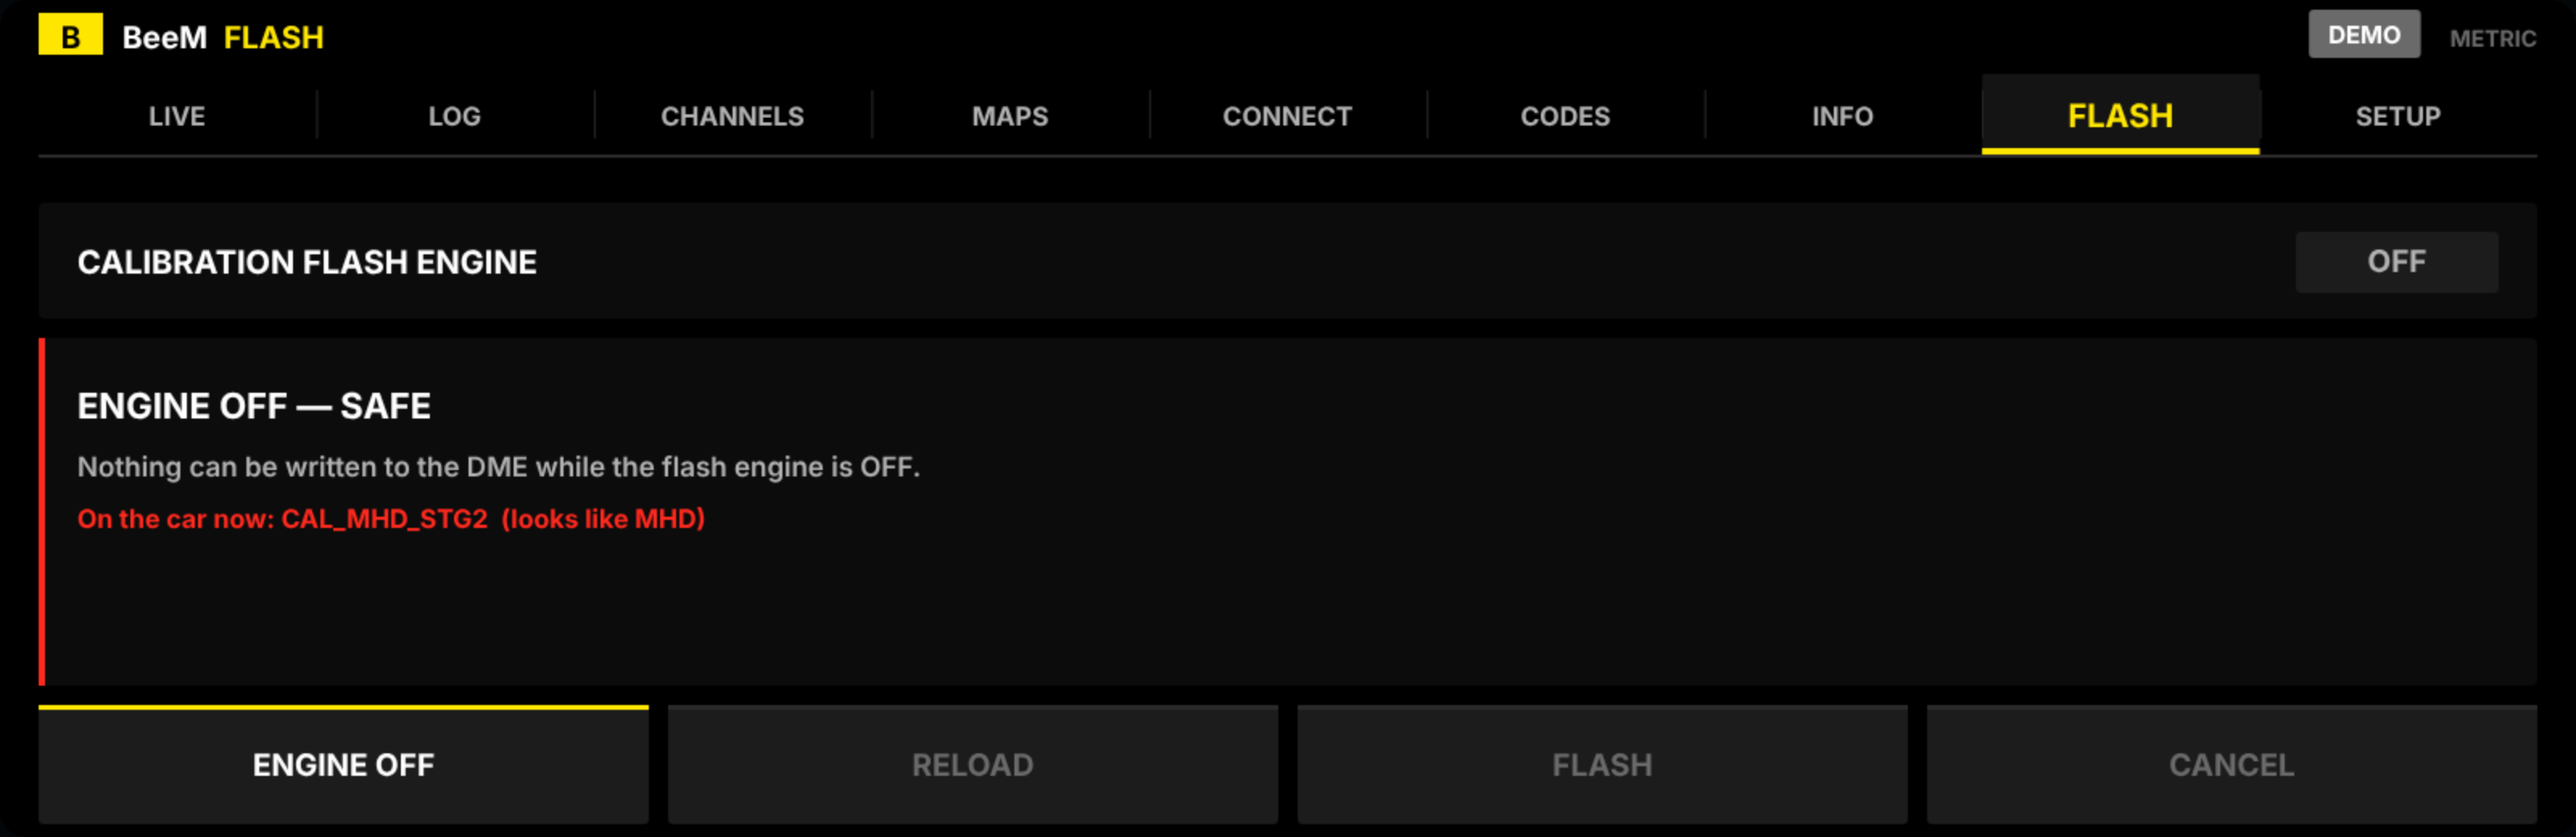
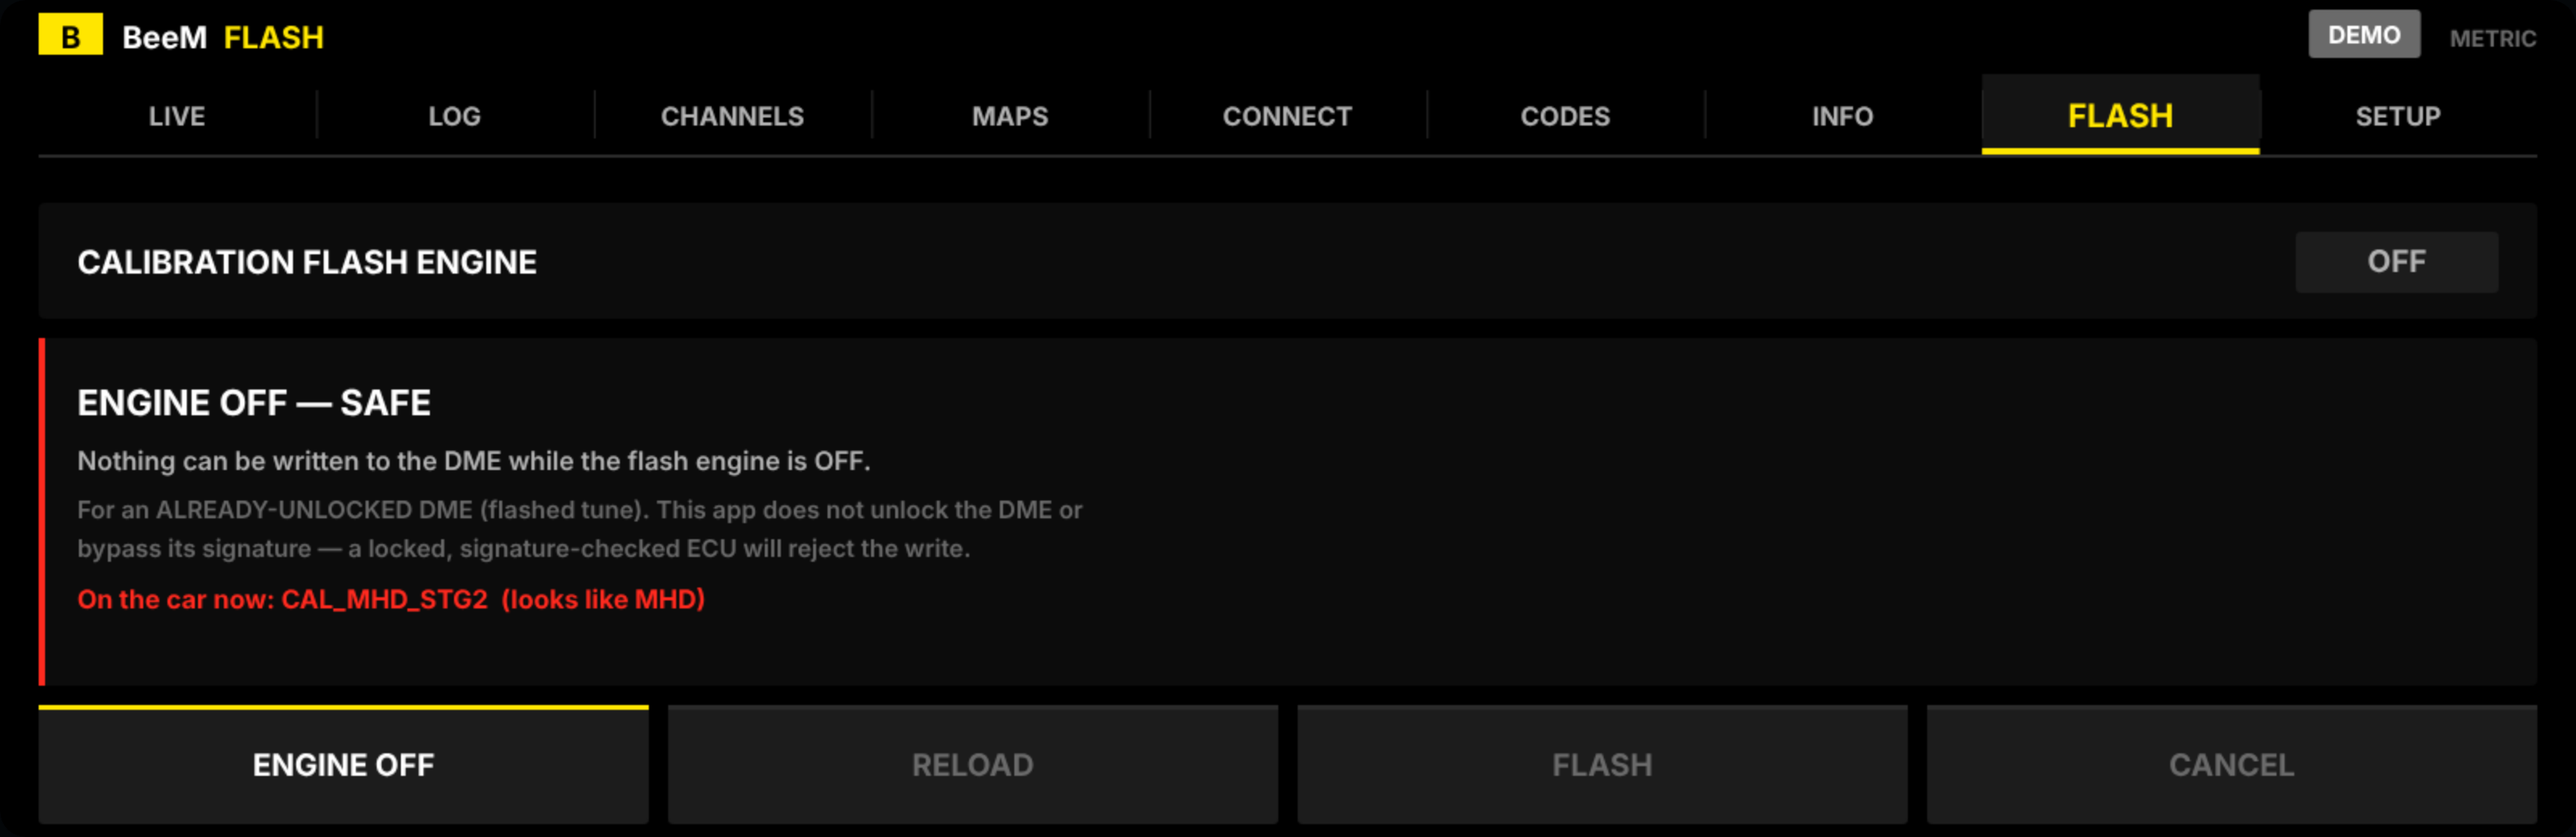
v2.8.0: Connect ACCEPT label + flasher scoped to already-unlocked DMEs
- Connect page: the acknowledge button now reads ACCEPT (was "ACK"). Navigation
  is via the top tabs; there is no Back button.
- Flash tab + docs/FLASHING.md: state explicitly this is for an ALREADY-UNLOCKED
  DME (flashed-tune car). The app does not unlock a DME or forge/bypass the
  DME's cryptographic signature; a locked, signature-checked ECU rejects the
  write by design. Checksum correction is the step that matters on an unlocked
  DME. 329 tests pass; build v2.8.0.

Claude-Session: https://claude.ai/code/session_016L48f8yNjthyyRfnj72ByZ

Changed region(s): [[0.0312, 0.4615, 0.4062, 0.6769], [0.0312, 0.7077, 0.2812, 0.7385]]

diff --git a/apps/wali_datalog/screens.js b/apps/wali_datalog/screens.js
@@ -356,7 +356,7 @@ function connect(cv, t, view, R) {
   if (e.acknowledged) cv.text('✓', R.x + 38, by + 21, 20, t.ink, { align: 'c', weight: 'bold' });
   cv.text('I have read and understand this warning', R.x + 64, by + 21, 20, t.text, { weight: 'bold' });
   var stateTxt, stateColor;
-  if (!e.acknowledged) { stateTxt = 'LOCKED — tap ACK'; stateColor = t.dim; }
+  if (!e.acknowledged) { stateTxt = 'LOCKED — tap ACCEPT'; stateColor = t.dim; }
   else if (e.connected) { stateTxt = 'CONNECTED (read-only)'; stateColor = t.good; }
   else if (e.enabled) { stateTxt = 'ENABLED — tap SCAN'; stateColor = t.warn; }
   else { stateTxt = 'DISABLED — tap ENABLE'; stateColor = t.dim; }
@@ -423,10 +423,11 @@ function flash(cv, t, view, R) {
       cv.text('Open INFO → READ, then come back here.', R.x + 24, py + 156, 19, t.accent, { weight: 'bold' });
       return;
     }
-    cv.text('ENGINE OFF — SAFE', R.x + 24, py + 50, 26, t.text, { weight: 'bold' });
-    cv.text('Nothing can be written to the DME while the flash engine is OFF.', R.x + 24, py + 86, 20, t.dim, {});
-    if (f.tune) cv.text('On the car now: ' + (f.tune.calId || '—') + (f.tune.detected ? '  (looks like ' + f.tune.detected + ')' : ''), R.x + 24, py + 118, 19, (f.tune.detected || f.tune.modified === true) ? t.crit : t.dim, { weight: (f.tune.detected || f.tune.modified === true) ? 'bold' : 'normal' });
-    else cv.text('Turn it ON to review your calibration descriptor and flash. Your vehicle, your data, your responsibility.', R.x + 24, py + 118, 19, t.faint, {});
+    cv.text('ENGINE OFF — SAFE', R.x + 24, py + 48, 26, t.text, { weight: 'bold' });
+    cv.text('Nothing can be written to the DME while the flash engine is OFF.', R.x + 24, py + 82, 19, t.dim, {});
+    cv.text('For an ALREADY-UNLOCKED DME (flashed tune). This app does not unlock the DME or', R.x + 24, py + 112, 18, t.faint, {});
+    cv.text('bypass its signature — a locked, signature-checked ECU will reject the write.', R.x + 24, py + 136, 18, t.faint, {});
+    if (f.tune) cv.text('On the car now: ' + (f.tune.calId || '—') + (f.tune.detected ? '  (looks like ' + f.tune.detected + ')' : ''), R.x + 24, py + 168, 19, (f.tune.detected || f.tune.modified === true) ? t.crit : t.dim, { weight: (f.tune.detected || f.tune.modified === true) ? 'bold' : 'normal' });
     return;
   }
   // armed

diff --git a/apps/wali_datalog/main.js b/apps/wali_datalog/main.js
@@ -436,7 +436,7 @@ App.prototype._actions = function () {
     { label: 'CANCEL', disabled: !this.confirm, fn: function () { self.confirm = false; } }
   ];
   if (s === 'connect') return [
-    { label: 'ACK', active: this.enet.acknowledged, fn: function () { self._enetAck(); } },
+    { label: 'ACCEPT', active: this.enet.acknowledged, fn: function () { self._enetAck(); } },
     { label: this.enet.enabled ? 'DISABLE' : 'ENABLE', active: this.enet.enabled, fn: function () { self._enetToggleEnable(); } },
     { label: 'SCAN', disabled: !this.enet.enabled, fn: function () { self._enetScan(); } }
   ];

diff --git a/docs/FLASHING.md b/docs/FLASHING.md
@@ -16,14 +16,26 @@ It lives in `apps/wali_datalog/flash.js` and rides the same open ENET/DoIP
 transport (`doip.js`) and pluggable SecurityAccess framework (`seedkey.js`) as
 the rest of the app.
 
+## For an ALREADY-UNLOCKED DME only
+
+This flasher targets a DME that is **already unlocked** (a car running a flashed
+tune, whose bootloader already accepts a calibration write). It does **not**
+unlock a DME and it does **not** forge or bypass the DME's cryptographic
+**signature**. On BMW MG1CS the calibration carries a ~256-byte RSA/ECC signature
+the ECU verifies (see `data/checksum_schemes/README.md`); a locked,
+signature-checked ECU will **reject** a write from this app, by design. Defeating
+that signature is out of scope and this project will not build it. On an unlocked
+DME, correcting the calibration **checksums** (below) is the important step this
+app does handle.
+
 ## What this is **not**
 
 - It bundles **no** calibration data, **no** ECU memory addresses, and **no**
   security key or algorithm. You supply all of them, for your own ECU.
 - It does **not** generate, validate, or modify a tune. The bytes it writes are
   exactly the bytes you give it.
-- It is **not** a magic recovery tool. If the ECU needs a full bootloader flash
-  or a first-time unlock, this calibration-only path will not do it.
+- It does **not** unlock a DME, flash a bootloader, or bypass a signature. If the
+  ECU is locked / signature-checked, this calibration-only path will not do it.
 
 Nothing in this repository acts on a car by itself. The flasher refuses to do
 anything without explicit, per-flash acknowledgment **and** your data.

diff --git a/CHANGELOG.md b/CHANGELOG.md
@@ -18,6 +18,15 @@ UI: one canvas screen with internal paging driven by four HMI bar buttons
 
 ## Beta 2 — v2.x.x
 
+### v2.8.0
+- **Connect label fix** — the acknowledge button now reads **ACCEPT** (was the
+  cryptic "ACK"); navigation is via the top tabs, there is no Back button.
+- **Flasher scope made explicit** — the Flash tab and `docs/FLASHING.md` now state
+  plainly that this is for an **already-unlocked DME** (a car running a flashed
+  tune): the app does **not** unlock a DME or bypass the DME's RSA/ECC signature,
+  so a locked/signature-checked ECU will reject the write by design. Checksum
+  correction remains the important step on an unlocked DME.
+
 ### v2.7.0
 - **DME checksum-scheme research** (`data/checksum_schemes/`) — the BMW MG1CS
   A2Ls declare the checksum method as **`XCP_CRC_32` (standard CRC-32)** over the
